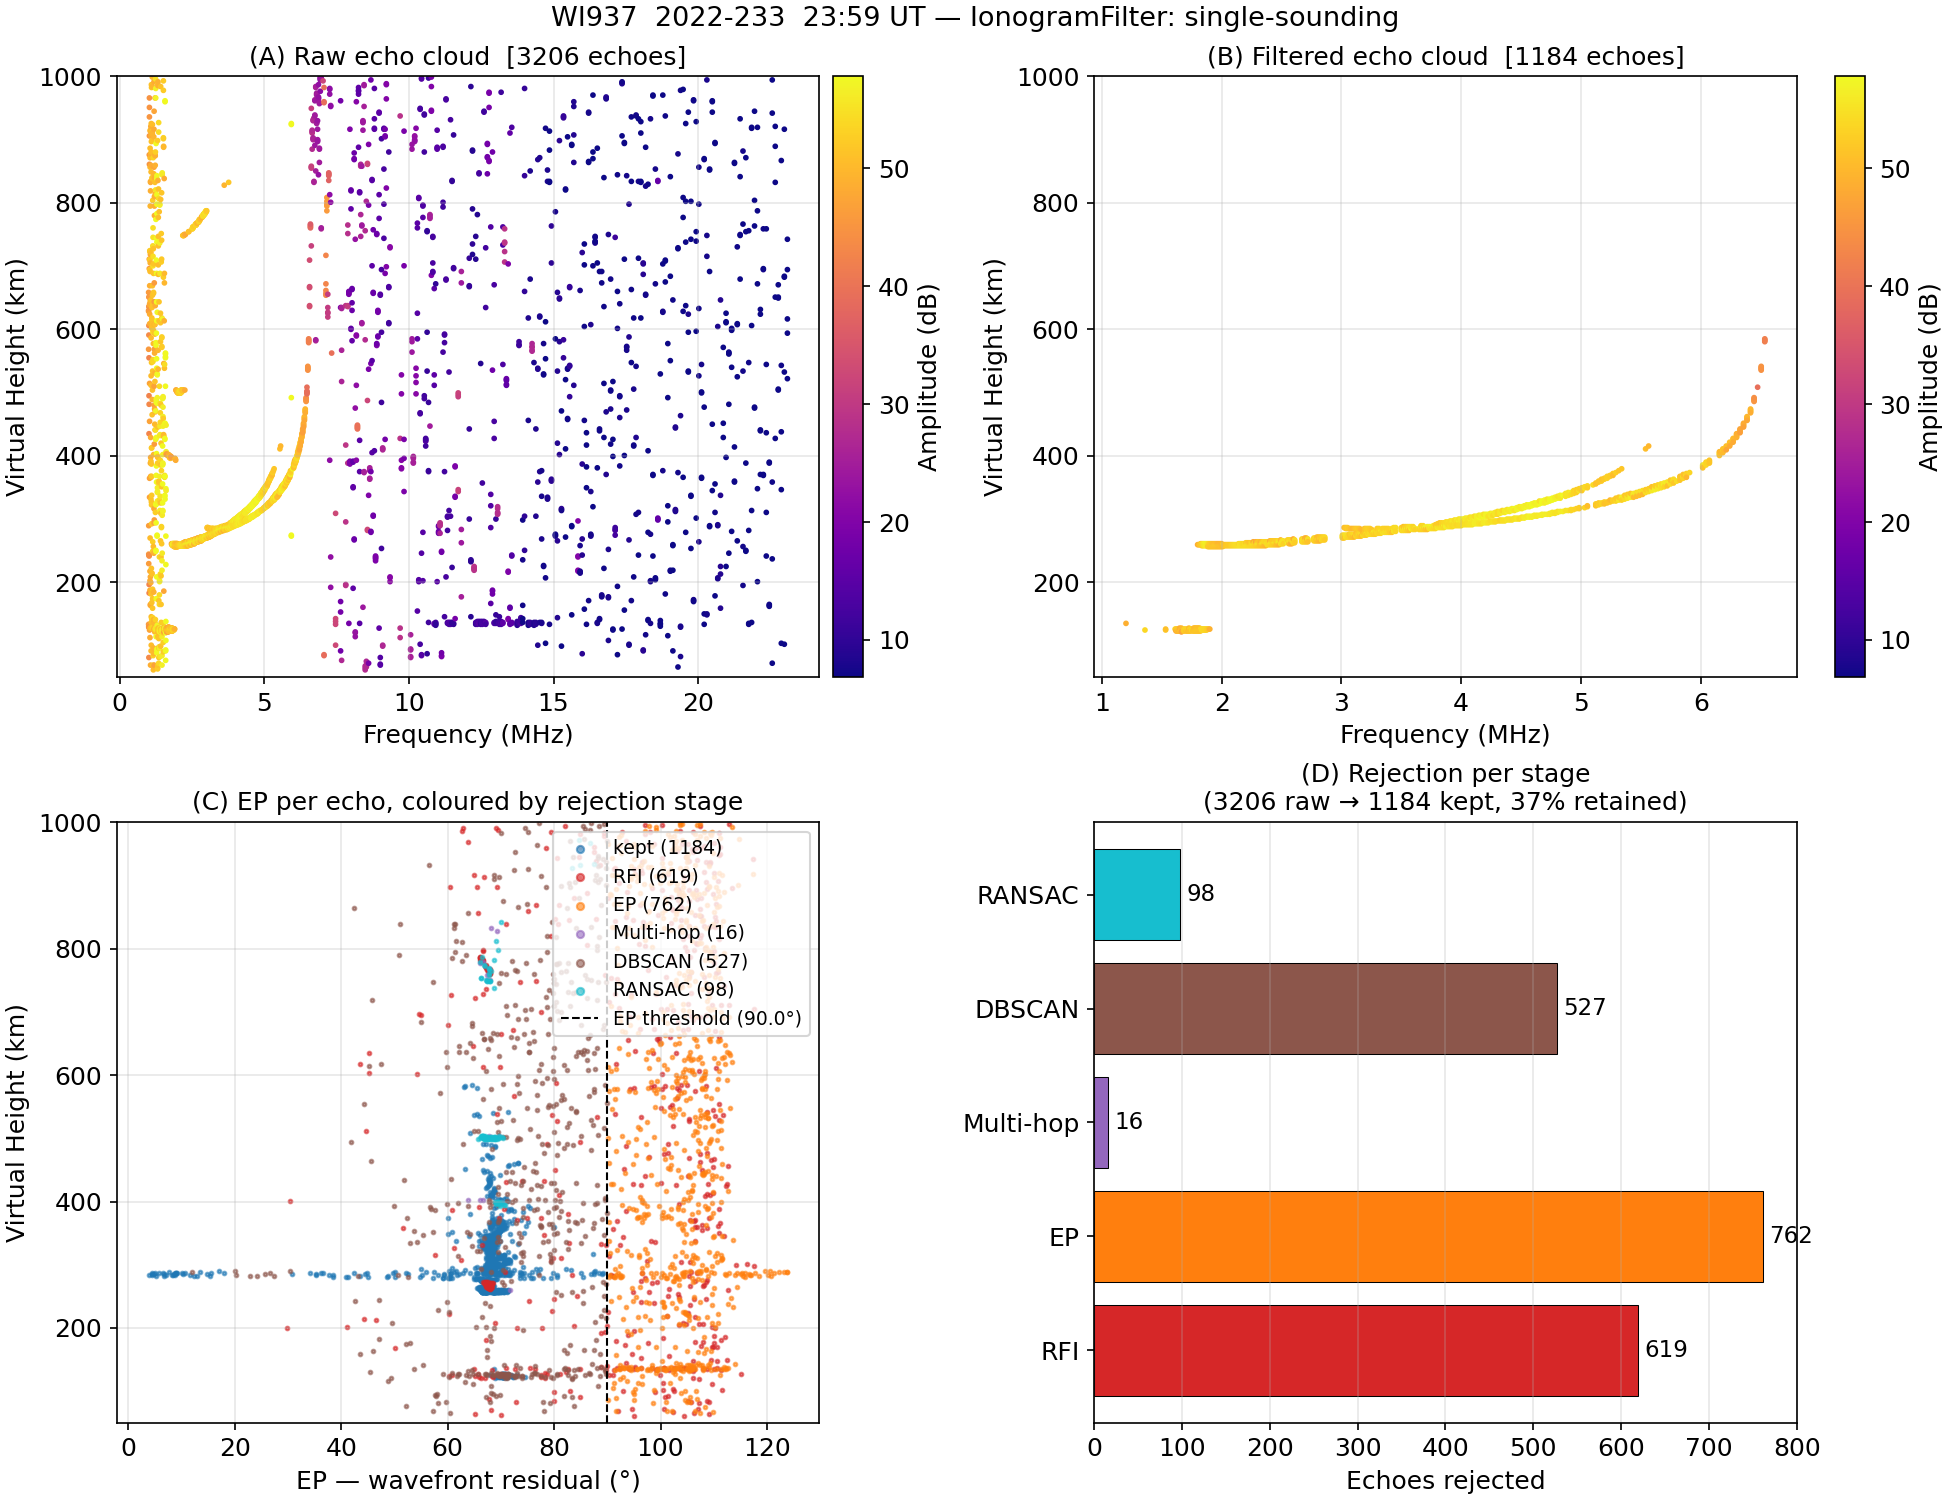
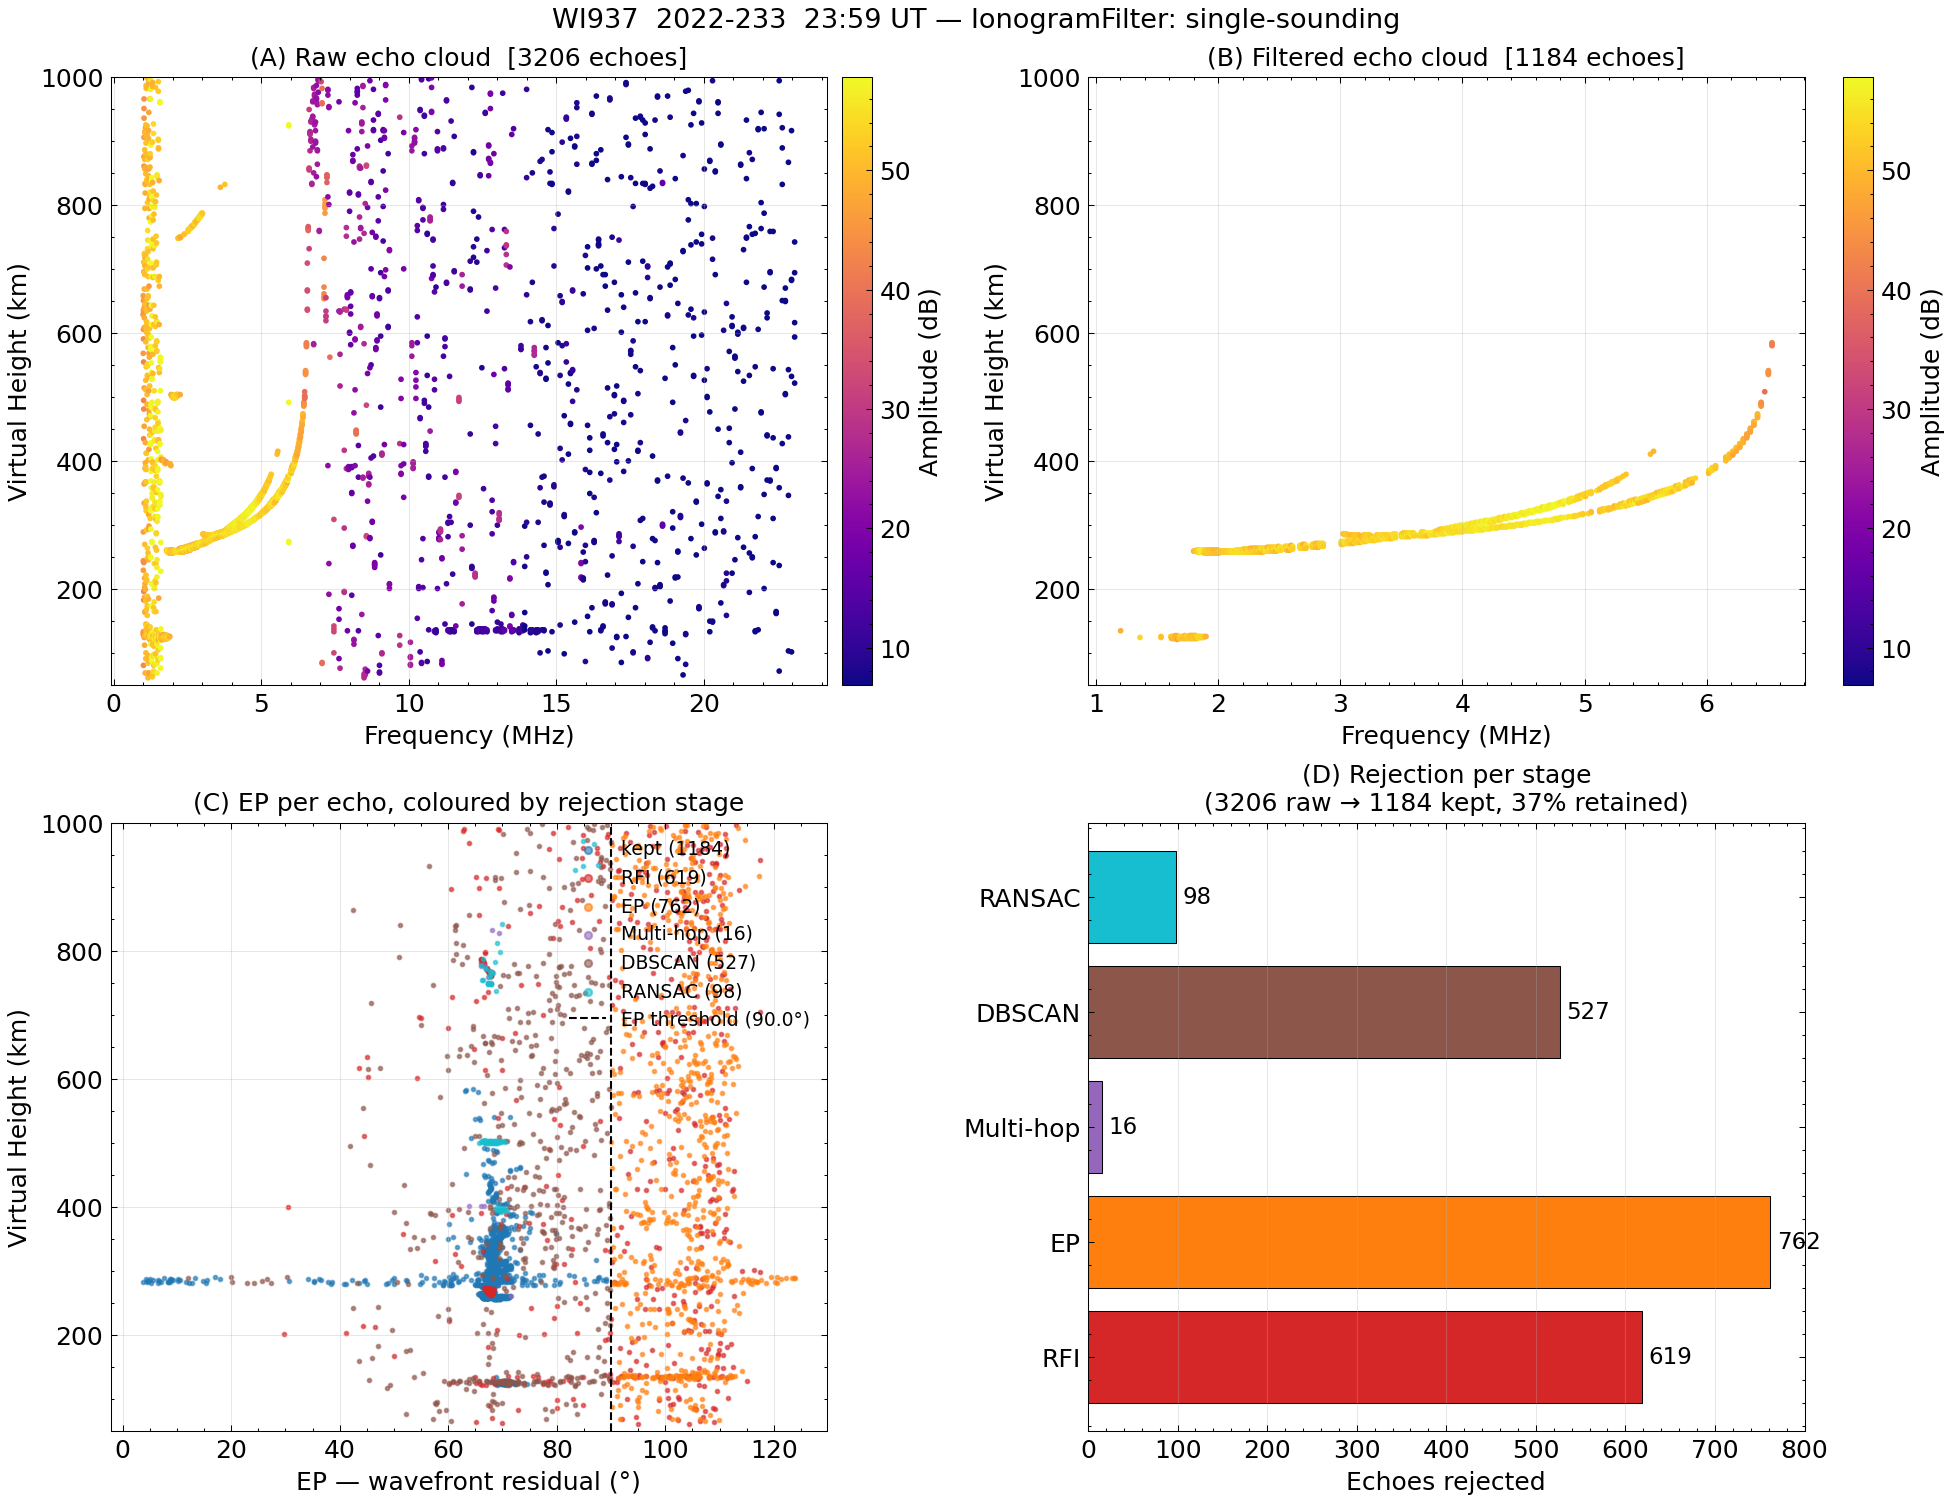
VIPIR ionogram filter example: raw RIQ power figure, docs and smoke test
- Example also saves the decoded RIQ power ionogram before filtering.
- Docs page shows both figures and its caption/panel text now match the
  regenerated figure (3206 -> 1184 echoes, five stages).
- Smoke test runs the example on the bundled WI937 RIQ file in a temp dir.

diff --git a/examples/vipir/ionogram_filter_wi937.py b/examples/vipir/ionogram_filter_wi937.py
@@ -31,6 +31,9 @@ A 2×2 comparison figure saved to
     (C) EP vs height — raw (grey) vs kept (coloured by stage)
     (D) Per-stage rejection bar chart
 
+Before extraction the decoded RIQ power is also saved as an ionogram to
+``docs/examples/figures/ionogram_filter_wi937_riq_power.png``.
+
 Update ``fname`` to point to your local copy of the file.
 """
 
@@ -38,6 +41,7 @@ import matplotlib.pyplot as plt
 import numpy as np
 
 from pynasonde.digisonde.digi_utils import setsize
+from pynasonde.vipir.ngi.plotlib import Ionogram
 from pynasonde.vipir.riq.echo import EchoExtractor
 from pynasonde.vipir.riq.parsers.filter import IonogramFilter
 from pynasonde.vipir.riq.parsers.read_riq import VIPIR_VERSION_MAP, RiqDataset
@@ -59,6 +63,30 @@ riq = RiqDataset.create_from_file(
     unicode="latin-1",
     vipir_config=VIPIR_VERSION_MAP.configs[1],
 )
+
+# Save the decoded RIQ power before echo extraction/filtering.  This is useful
+# for visually comparing the source ionogram against the extracted echo cloud.
+raw_ion = riq.get_ionogram(threshold=-np.inf, remove_baseline_noise=False)
+raw_ion.powerdB = np.nan_to_num(raw_ion.powerdB, nan=0.0, neginf=0.0, posinf=0.0)
+raw_power_plot = Ionogram(ncols=1, nrows=1, font_size=font_size, figsize=(5, 3))
+raw_power_plot.add_ionogram(
+    frequency=raw_ion.frequency,
+    height=raw_ion.height,
+    value=raw_ion.powerdB,
+    mode="O/X",
+    xlabel="Frequency (MHz)",
+    ylabel="Virtual Height (km)",
+    ylim=[50, 500],
+    xlim=[1.8, 22],
+    add_cbar=True,
+    cbar_label="Power (dB)",
+    prange=[0, 40],
+    del_ticks=False,
+)
+raw_power_out = "docs/examples/figures/ionogram_filter_wi937_riq_power.png"
+raw_power_plot.save(raw_power_out)
+raw_power_plot.close()
+print(f"RIQ power figure saved → {raw_power_out}")
 
 extractor = EchoExtractor(
     sct=riq.sct,

diff --git a/tests/test_examples_smoke.py b/tests/test_examples_smoke.py
@@ -59,3 +59,28 @@ def test_rsf_direction_ionogram_example_runs(monkeypatch, tmp_path):
     figs = tmp_path / "docs" / "examples" / "figures"
     for name in ("rsf_direction_ionogram_WS833.png", "rsf_directogram_WS833_daily.png"):
         assert (figs / name).stat().st_size > 0
+
+
+@pytest.mark.skipif(
+    not (DATA_DIR / "WI937_2022233235902.RIQ").exists(),
+    reason="Sample WI937 RIQ file not available",
+)
+def test_ionogram_filter_wi937_example_runs(monkeypatch, tmp_path):
+    """Run examples/vipir/ionogram_filter_wi937.py on the bundled WI937 RIQ file."""
+    pytest.importorskip("lxml", reason="example also imports the Digisonde helpers")
+    pytest.importorskip("sklearn", reason="needs pynasonde[vipir]")
+    pytest.importorskip("matplotlib")
+
+    (tmp_path / "examples").mkdir()
+    (tmp_path / "examples" / "data").symlink_to(DATA_DIR, target_is_directory=True)
+    (tmp_path / "docs" / "examples" / "figures").mkdir(parents=True)
+    monkeypatch.chdir(tmp_path)
+
+    runpy.run_path(
+        str(PROJECT_ROOT / "examples/vipir/ionogram_filter_wi937.py"),
+        run_name="__main__",
+    )
+
+    figs = tmp_path / "docs" / "examples" / "figures"
+    for name in ("ionogram_filter_wi937.png", "ionogram_filter_wi937_riq_power.png"):
+        assert (figs / name).stat().st_size > 0

diff --git a/docs/examples/vipir/ionogram_filter.md b/docs/examples/vipir/ionogram_filter.md
@@ -109,23 +109,41 @@ Total          3206       559  2647     82.6 %
 | Panel | Contents |
 |-------|----------|
 | **(A)** Raw ionogram | Echo cloud before filtering |
-| **(B)** Filtered ionogram | Echo cloud after all 4 stages |
+| **(B)** Filtered ionogram | Echo cloud after stages 1–5 |
 | **(C)** EP vs height | Each echo coloured by which stage rejected it |
 | **(D)** Rejection bar chart | Count of echoes removed per stage |
 
 <figure markdown>
 ![Single-sounding filter](../figures/ionogram_filter_wi937.png)
 <figcaption>
-WI937 2022-08-21 23:59 UT.  3206 raw echoes → 2647 after filtering (83 % retained).
+WI937 2022-08-21 23:59 UT.  3206 raw echoes → 1184 after filtering (37 % retained;
+rejected per stage: RFI 619, EP 762, multi-hop 16, DBSCAN 527, RANSAC 98).
+</figcaption>
+</figure>
+
+### Raw RIQ power (before filtering)
+
+Before extracting echoes, the example also saves the decoded RIQ power as an
+ionogram, which makes it easy to compare the source data against the echo cloud
+in panel (A).
+
+<figure markdown>
+![RIQ power ionogram](../figures/ionogram_filter_wi937_riq_power.png)
+<figcaption>
+WI937 2022-08-21 23:59 UT: decoded RIQ power (dB) of the O/X ionogram, before
+echo extraction and filtering.
 </figcaption>
 </figure>
 
 ### Run
 
 ```bash
-cd /home/chakras4/Research/CodeBase/pynasonde
 python examples/vipir/ionogram_filter_wi937.py
 ```
+
+The script reads the bundled `examples/data/WI937_2022233235902.RIQ` and writes
+`docs/examples/figures/ionogram_filter_wi937.png` and
+`docs/examples/figures/ionogram_filter_wi937_riq_power.png`.
 
 ---
 
